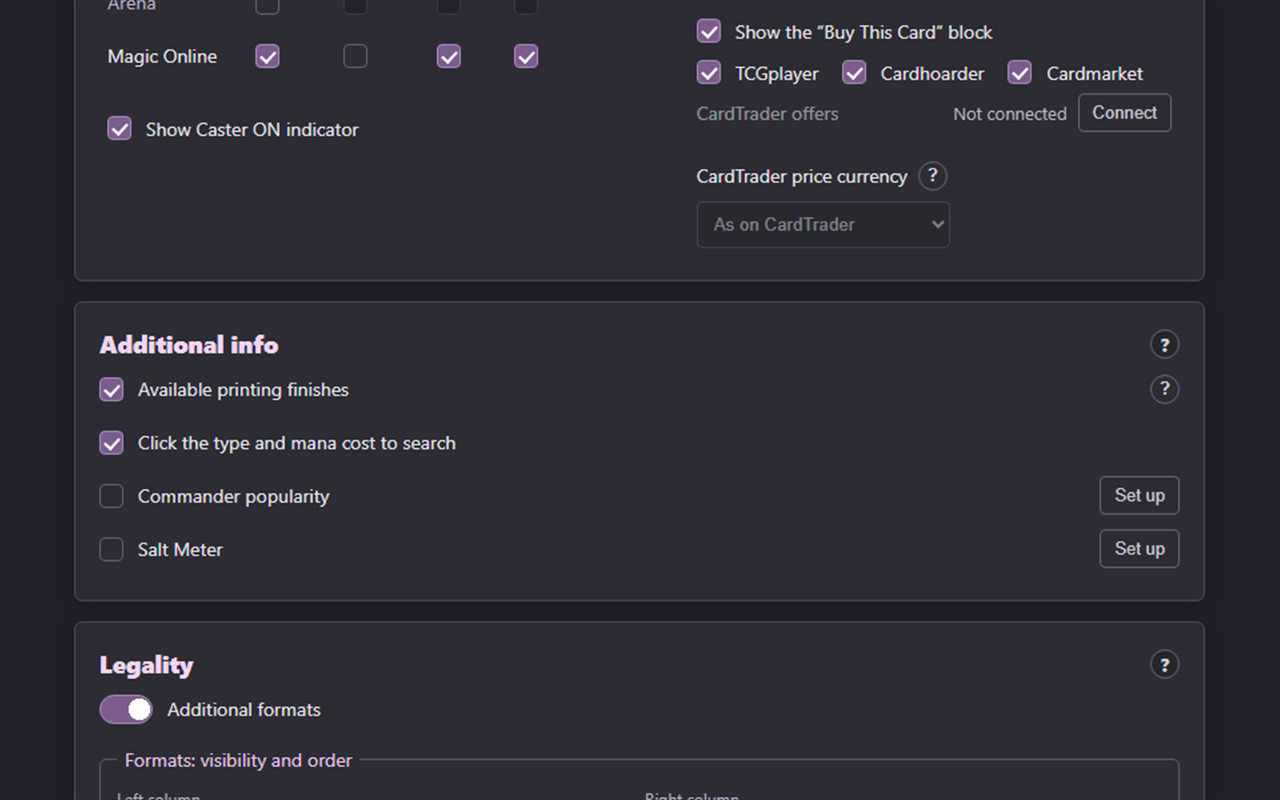
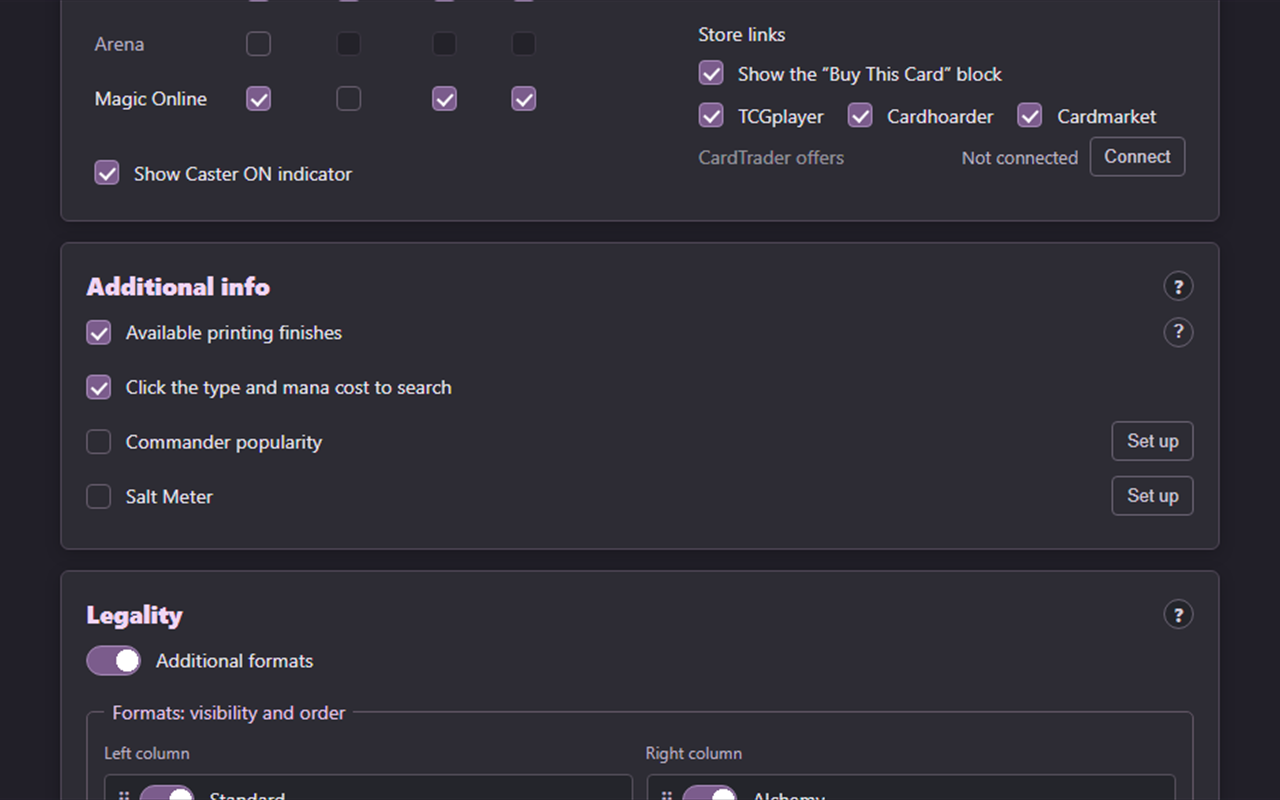
### 2.4.2 - the CardTrader currency choice is gone

diff --git a/src/ui/options.js b/src/ui/options.js
@@ -11,7 +11,7 @@
 const defaults = {
   settingsLanguage: 'auto',
   clipboard: true, printAddButtons: true, darkTheme: 'auto', tags: true, cardTags: true, artTags: false, relationships: true,
-  finishBadges: true, cardtraderPrices: false, cardtraderToken: '', cardtraderCurrency: '',
+  finishBadges: true, cardtraderPrices: false, cardtraderToken: '',
   edhrecUsage: false, edhrecSalt: false, showSaltScale: false, edhrecUsageDisplay: 'both',
   usageColorMetric: 'decks', usageMediumDecks: 50000, usageHighDecks: 100000,
   usageMediumPercent: 1, usageHighPercent: 2.6, saltMediumThreshold: 1, saltHighThreshold: 2,
@@ -38,7 +38,7 @@ const defaults = {
 // one flag, the two category rules carry a list under them, and the four price kinds are
 // told apart by the model rather than by an id. A key-by-key save would have to be kept
 // in step with all three, and there is no test that could tell that it was not.
-const basicFields = ["clipboard", "printAddButtons", "tags", "cardTags", "artTags", "relationships", "finishBadges", "cardtraderPrices", "cardtraderCurrency", "edhrecUsage", "edhrecSalt", "showSaltScale", "edhrecUsageDisplay", "usageColorMetric", "legalities", "exportFormat", "taggerSearchLinks", "cardSearchLinks", "deckNoPrices", "stackedDeckCards", "deckLegality", "deckCleanUpImprover", "cleanUpLandsInSingleton", "sortEntriesPrimary", "insertSortingHeadings", "edhrecSuggestions", "deckSearch"];
+const basicFields = ["clipboard", "printAddButtons", "tags", "cardTags", "artTags", "relationships", "finishBadges", "cardtraderPrices", "edhrecUsage", "edhrecSalt", "showSaltScale", "edhrecUsageDisplay", "usageColorMetric", "legalities", "exportFormat", "taggerSearchLinks", "cardSearchLinks", "deckNoPrices", "stackedDeckCards", "deckLegality", "deckCleanUpImprover", "cleanUpLandsInSingleton", "sortEntriesPrimary", "insertSortingHeadings", "edhrecSuggestions", "deckSearch"];
 // EDHREC and CardTrader are optional features, and so is the access they need.
 // Chrome has a place for exactly this: optional_host_permissions, granted only
 // when the user turns one of them on. Turning a switch off and on again is also
@@ -360,17 +360,9 @@ chrome.storage.local.get(defaults, values => {
       notes: [
         'Для цен CardTrader нужен токен. Он хранится локально в расширении и передаётся только в API CardTrader.',
         'Цены в таблице появляются постепенно; столбец подписывается валютой вашего аккаунта. Состояние и язык могут отличаться.',
+        'Выбрать другую валюту нельзя: у API CardTrader нет параметра валюты, он всегда отвечает в валюте аккаунта. Это и есть валюта столбца CardTrader в таблице изданий, а не евро.',
+        'Галочка «Предложения CardTrader» добавляет ссылки CardTrader в блок покупки; галочка CardTrader в группе «Цены» — отдельный столбец, и он работает и без ссылок.',
         'Сохранённый токен не проверяется этой страницей: она не делает запросов к CardTrader. Работает он или нет, видно на странице карты.'
-      ]
-    },
-    eursource: {
-      caption: 'Валюта цен CardTrader',
-      notes: [
-        'Столбец EUR на Scryfall — это цена Cardmarket, и галочка EUR в группе «Цены» показывает или прячет именно его.',
-        'CardTrader — отдельный столбец рядом, со своей галочкой в той же группе. Его цена приходит в валюте вашего аккаунта CardTrader, и столбец подписывается этой валютой — а не евро.',
-        'Параметр валюты у CardTrader нет, поэтому «Валюта цен CardTrader» — предпочтение: если в этой валюте есть предложения, берётся самое дешёвое из них; иначе показывается валюта аккаунта.',
-        'Для столбца CardTrader нужен личный токен, и задаётся он в строке «Предложения CardTrader» выше. Пока токена нет, галочка столбца заблокирована: нажмите «Подключить» и сохраните токен.',
-        'Галочка «Предложения CardTrader» — про другое: она добавляет ссылки CardTrader в блок покупки, а столбец работает и без неё.'
       ]
     },
     deckNoPrices: {
@@ -947,25 +939,19 @@ for (const group of FILTERS.PRICE_GROUP_NAMES) {
   paintStores();
 
   // The CardTrader column's box is drawn with the other prices, and this is where it is wired: it
-  // is the one price that needs a token, so it is out of reach until one is saved, and the
-  // currency below it only means something while it is on.
+  // is the one price that needs a token, so it is out of reach until one is saved.
   //
   // The EUR box above it is a column like USD and TIX and answers only for itself now. It used to
   // share one answer with a source dropdown, and the two were kept in step — which is what left a
   // reader who wanted CardTrader's column unable to have it without Cardmarket's, on a dropdown
   // that was blocked the moment they unticked EUR.
   const cardtraderColumnBox = priceBoxes.cardtrader;
-  const cardtraderCurrency = document.getElementById('cardtraderCurrency');
   const paintCardtraderColumn = () => {
     const connected = tokenStatus.dataset.stored === 'yes';
-    const on = connected && filters.prices.cardtrader !== false;
     if (cardtraderColumnBox) {
       cardtraderColumnBox.disabled = !connected;
-      cardtraderColumnBox.checked = on;
+      cardtraderColumnBox.checked = connected && filters.prices.cardtrader !== false;
     }
-    // The currency only means something for the column it heads, so it is out of reach while the
-    // column is off — and while there is no token to ask with.
-    cardtraderCurrency.disabled = !on;
   };
   repaintCardtraderColumn = paintCardtraderColumn;
   // A token that has gone cannot fill the column, so the column goes with it rather than staying

diff --git a/src/background/worker.js b/src/background/worker.js
@@ -54,7 +54,7 @@ async function cardTrader(path, token) {
     headers: { Authorization: `Bearer ${token}`, Accept: 'application/json' }, credentials: 'omit'
   });
 }
-async function cardTraderPrices(id, set, token, wanted = '') {
+async function cardTraderPrices(id, set, token) {
   const expansions = await traderMemo('trader:expansions', 24 * 3600000, () => cardTrader('expansions', token));
   const expansion = expansions.find(item => item.game_id === 1 && item.code?.toLowerCase() === set.toLowerCase());
   if (!expansion) return { available: false };
@@ -66,35 +66,21 @@ async function cardTraderPrices(id, set, token, wanted = '') {
     () => cardTrader(`marketplace/products?blueprint_id=${blueprint.id}`, token));
   const products = Array.isArray(raw) ? raw : Array.isArray(raw?.data) ? raw.data :
     Object.values(raw || {}).flatMap(value => Array.isArray(value) ? value : []);
-  // The price the API returns is in the account's own currency — CardTrader's docs say so, and
-  // the endpoint has no currency parameter — so a wanted currency is a preference rather than a
-  // request: the cheapest offer in it is used when one exists, and the account's own currency is
-  // the answer otherwise. Requiring a currency with no offers in it would leave the column empty
-  // on an account that never lists one.
-  const wantedCode = /^[A-Z]{3}$/.test(wanted) ? wanted : '';
-  // The cheapest offer in the wanted currency, and beside it the cheapest in any currency. The
-  // preference above has always said a wanted currency is a preference and the account's own is
-  // the answer otherwise; the loop did not, and a reader who picked a currency their account never
-  // lists saw an empty column and an empty link. The fallback is what makes the sentence true.
+  // The price the API returns is in the account's own currency — CardTrader's docs say so, and the
+  // endpoint has no currency parameter — so there is nothing to prefer and nothing to fall back
+  // from: the cheapest offer of each kind is the answer, in whichever currency it came in.
   const cheapest = { foil: null, nonfoil: null };
-  const fallback = { foil: null, nonfoil: null };
-  const cheaper = (held, cents, currency) => !held || (held.currency === currency && cents < held.cents);
   for (const product of products) {
     if (product.blueprint_id !== blueprint.id || product.quantity <= 0) continue;
     const cents = product.price?.cents ?? product.price_cents;
     const currency = product.price?.currency ?? product.price_currency;
     if (!Number.isFinite(cents) || !/^[A-Z]{3}$/.test(currency || '')) continue;
     const kind = product.properties_hash?.mtg_foil === true || product.properties?.mtg_foil === true ? 'foil' : 'nonfoil';
-    if (cheaper(fallback[kind], cents, currency)) fallback[kind] = { cents, currency };
-    if (wantedCode && currency !== wantedCode) continue;
-    if (cheaper(cheapest[kind], cents, currency)) cheapest[kind] = { cents, currency };
+    if (!cheapest[kind] || (cheapest[kind].currency === currency && cents < cheapest[kind].cents)) {
+      cheapest[kind] = { cents, currency };
+    }
   }
-  return {
-    available: true,
-    url: `https://www.cardtrader.com/en/cards/${blueprint.id}`,
-    foil: cheapest.foil || fallback.foil,
-    nonfoil: cheapest.nonfoil || fallback.nonfoil
-  };
+  return { available: true, url: `https://www.cardtrader.com/en/cards/${blueprint.id}`, ...cheapest };
 }
 // EDHREC publishes a data policy for community projects: at most one request a
 // second, at least two seconds before trying again after a 429, and no repeated
@@ -654,7 +640,7 @@ chrome.runtime.onMessage.addListener((message, sender, respond) => {
     if (message.type === 'cardtrader') {
       const id = String(message.id), set = String(message.set);
       if (!/^[0-9a-f-]{36}$/.test(id) || !/^[a-z0-9_-]{1,16}$/i.test(set)) throw new Error('Invalid card');
-      const stored = await chrome.storage.local.get(['cardtraderToken','cardtraderPrices','setFilters','cardtraderCurrency']);
+      const stored = await chrome.storage.local.get(['cardtraderToken','cardtraderPrices','setFilters']);
       // Either CardTrader feature being on is enough, and the column's own switch lives in the
       // hiding group with the other columns. A value written before that switch existed has no
       // `cardtrader` key of its own, so it is read as "not off": the page only asks when a switch
@@ -662,7 +648,7 @@ chrome.runtime.onMessage.addListener((message, sender, respond) => {
       // wrong side of that guess.
       const column = stored.setFilters?.prices?.cardtrader;
       if ((!stored.cardtraderPrices && column === false) || !stored.cardtraderToken) throw new Error('CardTrader is not configured');
-      return cardTraderPrices(id, set, stored.cardtraderToken, stored.cardtraderCurrency);
+      return cardTraderPrices(id, set, stored.cardtraderToken);
     }
     if (message.type === "preview") {
       if (!/^(oracleid|illustrationid)$/.test(String(message.kind)) ||

diff --git a/src/core/i18n.js b/src/core/i18n.js
@@ -115,13 +115,8 @@ const resolveSettingsLanguage = value => {
     'Показывать шкалу «/4»': 'Show the “/4” scale',
     'Показывать блок «Купить карту»': 'Show the “Buy This Card” block',
     'Столбец EUR на Scryfall — это цена Cardmarket, и галочка EUR в группе «Цены» показывает или прячет именно его.': 'Scryfall’s EUR column is Cardmarket’s price, and the EUR box in the Prices group shows or hides exactly that column.',
-    'CardTrader — отдельный столбец рядом, со своей галочкой в той же группе. Его цена приходит в валюте вашего аккаунта CardTrader, и столбец подписывается этой валютой — а не евро.': 'CardTrader is a separate column beside it, with its own box in the same group. Its price comes in your CardTrader account’s currency, and the column is headed with that currency — not with euro.',
-    'Параметр валюты у CardTrader нет, поэтому «Валюта цен CardTrader» — предпочтение: если в этой валюте есть предложения, берётся самое дешёвое из них; иначе показывается валюта аккаунта.': 'CardTrader has no currency parameter, so “CardTrader price currency” is a preference: when offers exist in that currency the cheapest of them is used, and the account’s currency is shown otherwise.',
-    'Для столбца CardTrader нужен личный токен, и задаётся он в строке «Предложения CardTrader» выше. Пока токена нет, галочка столбца заблокирована: нажмите «Подключить» и сохраните токен.': 'The CardTrader column needs a personal token, set in the “CardTrader offers” row above. While there is no token its box is blocked: press “Connect” and save one.',
-    'Галочка «Предложения CardTrader» — про другое: она добавляет ссылки CardTrader в блок покупки, а столбец работает и без неё.': 'The “CardTrader offers” box is about something else: it adds CardTrader links to the buy block, and the column works without it.',
-    'Валюта цен CardTrader': 'CardTrader price currency',
-    'Как на CardTrader': 'As on CardTrader',
-    'Цена CardTrader приходит в валюте вашего аккаунта CardTrader, и столбец подписывается этой валютой — а не евро. Параметр валюты у CardTrader нет, поэтому «Валюта цен CardTrader» — предпочтение: если в этой валюте есть предложения, берётся самое дешёвое из них; иначе показывается валюта аккаунта.': 'CardTrader returns the price in your CardTrader account’s currency, and the column is headed with that currency — not with euro. CardTrader has no currency parameter, so “CardTrader price currency” is a preference: when offers exist in that currency the cheapest of them is used, and the account’s currency is shown otherwise.',
+    'Выбрать другую валюту нельзя: у API CardTrader нет параметра валюты, он всегда отвечает в валюте аккаунта. Это и есть валюта столбца CardTrader в таблице изданий, а не евро.': 'There is no other currency to choose: the CardTrader API has no currency parameter and always answers in the account’s currency. That is the currency of the CardTrader column in the prints table, not euro.',
+    'Галочка «Предложения CardTrader» добавляет ссылки CardTrader в блок покупки; галочка CardTrader в группе «Цены» — отдельный столбец, и он работает и без ссылок.': 'The “CardTrader offers” box adds CardTrader links to the buy block; the CardTrader box in the Prices group is a separate column, and it works without the links.',
     'Что это': 'What this does',
     'Дробь и процент': 'Fraction and percentage', 'Только дробь': 'Fraction only', 'Только процент': 'Percentage only',
     'Количеству колод': 'Deck count', 'Доле подходящих колод': 'Eligible deck percentage',

diff --git a/src/card-page/prices.js b/src/card-page/prices.js
@@ -57,10 +57,8 @@
     // store markup had moved lost the column as well.
     const showColumn = setFilters.prices.cardtrader !== false;
     const showCardmarket = setFilters.prices.eur !== false;
-    // Which currency the CardTrader column asks for. Empty means "as the account", which is what
-    // CardTrader's own API answers in; a code is a preference the worker honours when an offer in
-    // it exists, because the endpoint has no currency parameter of its own.
-    const wantedCurrency = /^[A-Z]{3}$/.test(settings.cardtraderCurrency || '') ? settings.cardtraderCurrency : '';
+    // There is no currency to ask for: CardTrader answers in the account's own currency and the
+    // endpoint has no parameter for another, so the column is headed with whatever comes back.
     const table = document.querySelector('#main .prints > .prints-table');
     const eurIndex = [...(table?.querySelectorAll('thead th') || [])].findIndex(th => th.textContent.trim().toUpperCase() === 'EUR');
     if (table && eurIndex >= 0 && (showColumn || !showCardmarket)) {
@@ -82,13 +80,11 @@
         const th = document.createElement('th');
         th.className = 'stk-ct-price-header';
         th.title = 'CardTrader: lowest offer for this printing';
-        th.append(priceHeading('cardtrader', wantedCurrency));
+        th.append(priceHeading('cardtrader'));
         heading.after(th);
-        // The heading's currency code. It is a hint until the first offer is answered — the code
-        // the reader asked for, or nothing when the setting says "as the account" — and the first
-        // offer then says what the column's numbers are actually in, because the wanted currency
-        // is a preference the worker falls back from when the account lists none of it. Left as
-        // the hint, a reader who asked for USD over euro offers read "USD" above "0,11 €".
+        // The heading's currency code, filled in when the first offer is answered: the account's
+        // currency is not known before a request is answered, and there is no setting to read it
+        // from — CardTrader has no currency parameter.
         const ctCode = () => th.querySelector('.stk-price-code');
         const rows = [...table.querySelectorAll('tbody tr')];
         const queue = [];

diff --git a/src/ui/options.html b/src/ui/options.html
@@ -116,16 +116,6 @@
 <button type="button" class="feature-help" data-help="cardtrader" aria-haspopup="dialog" title="Что это">?</button>
 </div>
 </div>
-<!-- Which currency the CardTrader column is headed with. The column's own switch is drawn with the
-     other prices, and it needs CardTrader's token to fill at all — not obvious from a currency
-     code — so this carries its own help. -->
-<div class="price-source">
-<div class="price-source-head">
-<label class="pair-caption" for="cardtraderCurrency">Валюта цен CardTrader</label>
-<button type="button" class="feature-help" data-help="eursource" aria-haspopup="dialog" title="Что это">?</button>
-</div>
-<select id="cardtraderCurrency"><option value="">Как на CardTrader</option><option value="EUR">EUR</option><option value="USD">USD</option><option value="GBP">GBP</option><option value="JPY">JPY</option><option value="CAD">CAD</option><option value="AUD">AUD</option><option value="CHF">CHF</option><option value="PLN">PLN</option><option value="SEK">SEK</option><option value="NOK">NOK</option><option value="DKK">DKK</option><option value="CZK">CZK</option></select>
-</div>
 </div>
 </div>
 </section>

diff --git a/src/ui/options.css b/src/ui/options.css
@@ -85,15 +85,6 @@ label{display:block;margin:9px 0;cursor:pointer}input{accent-color:#aa85b5}
 .pair-caption{margin:0 0 8px;font-size:14px;color:#e9e5ee}
 .pair-items{display:flex;flex-wrap:wrap;gap:8px 18px}
 .pair-item{display:flex;align-items:center;gap:8px;margin:0;font-size:14px;cursor:pointer}
-/* The currency the CardTrader column is headed with. The same shape as the price groups above it —
-   a caption and the control it names — because it is the same kind of setting, and it sits under
-   them rather than in the other section, where it was a price setting in a list of things that are
-   not prices. */
-.price-source{margin:16px 0 0}
-.price-source-head{display:flex;align-items:center;gap:8px;margin:0 0 8px}
-.price-source .pair-caption{margin:0}
-.price-source select{width:auto;min-width:190px;max-width:260px;margin-top:0}
-.price-source select:disabled{opacity:.45;cursor:not-allowed}
 /* The general switch over the shop block, above the shops it governs and inside their group. */
 .stores-row{margin:0 0 10px}
 /* One row and one box, on its own line in the left column under the platforms table. It is a

diff --git a/src/card-page/core.js b/src/card-page/core.js
@@ -64,7 +64,6 @@
     clipboard: true, tags: true, cardTags: true, artTags: false, relationships: true,
     printAddButtons: true,
     legalities: true, finishBadges: true, cardtraderPrices: false,
-    cardtraderCurrency: '',
     edhrecUsage: false, edhrecSalt: false, showSaltScale: false, edhrecUsageDisplay: 'both',
     usageColorMetric: 'decks', usageMediumDecks: 50000, usageHighDecks: 100000,
     usageMediumPercent: 1, usageHighPercent: 2.6, saltMediumThreshold: 1, saltHighThreshold: 2,

diff --git a/README.md b/README.md
@@ -73,7 +73,7 @@ The toolbar button opens a small popup with the four switches you reach for most
 | **General** | Settings language — for the settings page and the popup; the controls the extension adds to Scryfall and Tagger are always in English — and theme |
 | **Tags** | Card/art tags, related cards, the Tagger link on search results |
 | **CardClip** | The clipboard, the copy format, the per-printing `+` |
-| **Visibility** | two columns: on the left a table with one row per platform - Paper, Arena, Magic Online - and a column per place: the platform's own **Show** box and its own boxes for the **Prints table**, **Search** and **Sets list**, with the Caster marker on its own under the table; and on the right, prices (USD, TIX, EUR, CardTrader), store links (TCGplayer, Cardhoarder, Cardmarket) under a switch for the whole **Buy This Card** block, and CardTrader offers. Everything ticked means shown, and turning a platform - or the store block - off keeps the choices under it and brings them back; the **EUR** box hides Cardmarket's euro column and the **CardTrader** box adds its own column, and neither reads the other. CardTrader's prices need a personal API key: until one is saved its box is blocked; its column is headed with the currency the account answers in, and **CardTrader price currency** can prefer another |
+| **Visibility** | two columns: on the left a table with one row per platform - Paper, Arena, Magic Online - and a column per place: the platform's own **Show** box and its own boxes for the **Prints table**, **Search** and **Sets list**, with the Caster marker on its own under the table; and on the right, prices (USD, TIX, EUR, CardTrader), store links (TCGplayer, Cardhoarder, Cardmarket) under a switch for the whole **Buy This Card** block, and CardTrader offers. Everything ticked means shown, and turning a platform - or the store block - off keeps the choices under it and brings them back; the **EUR** box hides Cardmarket's euro column and the **CardTrader** box adds its own column, and neither reads the other. CardTrader's prices need a personal API key: until one is saved its box is blocked; its column is headed with the currency the account answers in — there is nothing to choose, because the API has no currency parameter |
 | **Additional info** | A list of one-line features, each with its own switch and its settings behind a **Set up** button: the finish column, type and mana search, Commander popularity and Salt Meter |
 | **Legality** | The extra formats and their order |
 | **Scryfall Deckbuilder** | A list of one-line features, each with its own switch and a **?** for what it does and what it does not: No Prices, the token list, stacked cards, a per-card Commander check, EDHREC suggestions, deck search, and the improved cleanup — whose settings are behind its own **Set up**, collapsed until asked for |

diff --git a/docs/FEATURES.md b/docs/FEATURES.md
@@ -137,15 +137,15 @@ column this extension adds from your own account: it has a switch of its own, an
 the other, so CardTrader's prices can be shown without Cardmarket's euro column and the other way
 round. It needs a personal token, set in the CardTrader row, and the row's own switch is not
 required for it: that switch is about the buy-block links. The column is headed with the currency
-its prices come in — the API answers in the account's currency and has no currency parameter — and
-**CardTrader price currency**, under the price groups, prefers another one when offers in it exist.
-The shop box is a different question again: hiding Cardmarket hides its links and not the column.
+its prices come in — CardTrader answers in your account's currency and their API has no parameter
+for another, so there is no currency to choose and nothing to prefer. The shop box is a different
+question again: hiding Cardmarket hides its links and not the column.
 
 **CardTrader prices.** With your own personal API token, the extension matches Scryfall
 print IDs against CardTrader blueprints, links the exact printing and shows the cheapest
 listed foil and nonfoil offers. Its column fills gradually to respect the marketplace
-rate limit, and it is headed with the currency the account's offers come in. If CardTrader fails, a CardTrader-only table
-restores the native Cardmarket column unless the reader has hidden Cardmarket. Listed prices
+rate limit, and it is headed with the currency the account's offers come in. A printing with no
+offer leaves its cell empty rather than filling it from somewhere else. Listed prices
 exclude shipping and do not guarantee language, condition or stock. The token is stored locally
 and sent only to `api.cardtrader.com`. On the settings page the feature cannot be switched on
 before there is a token, because a switch that turns on a request that cannot be made is a switch

diff --git a/docs/CHROME_WEB_STORE_LISTING.md b/docs/CHROME_WEB_STORE_LISTING.md
@@ -1,4 +1,4 @@
-# Chrome Web Store listing — Scryfall Toolkit 2.4.1
+# Chrome Web Store listing — Scryfall Toolkit 2.4.2
 
 Everything here is written from the shipped code, so that the answers given in the store
 console match what the extension actually does. Where a field needs a decision from the
@@ -272,12 +272,12 @@ Ready in `store-assets/`, each exactly **1280×800** (PNG), in English:
 | --- | --- |
 | `store-assets/01-settings-01-of-05.png` | the header, General (settings language, theme), and the start of Tags |
 | `store-assets/02-settings-02-of-05.png` | the end of Tags, CardClip with its export format, and the start of Visibility: the platform table and the prices, with the CardTrader column's box beside USD, TIX and EUR |
-| `store-assets/03-settings-03-of-05.png` | the rest of Visibility - the shop block, CardTrader unconnected, and the currency its column is headed with - Additional info as a list of one-line features, and the start of Legality |
+| `store-assets/03-settings-03-of-05.png` | the rest of Visibility - the shop block, CardTrader unconnected, and the Caster marker - Additional info as a list of one-line features, and the start of Legality |
 | `store-assets/04-settings-04-of-05.png` | the format grid, and the start of Scryfall Deckbuilder with its switches on |
 | `store-assets/05-settings-05-of-05.png` | the rest of Scryfall Deckbuilder (EDHREC suggestions asking for its permission), the collapsed **Diagnostics** section, and Credits and third-party projects |
 
 All five come from one real capture of the settings page
-(`store-assets/settings-page-full.png`, 1280×3000), so nothing is repeated or cropped
+(`store-assets/settings-page-full.png`, 1280×2921), so nothing is repeated or cropped
 away between them. Each tile is scaled uniformly to 800 rows and the margins continue
 the page's own colour, so no screenshot is stretched.
 

diff --git a/CHANGELOG.md b/CHANGELOG.md
@@ -8,6 +8,15 @@ All releases: <https://github.com/Solomag/scryfall-toolkit/releases>
 
 ---
 
+### 2.4.2 - the CardTrader currency choice is gone
+
+The column's heading promised a currency the API cannot honour. CardTrader answers in the account's
+own currency and their reference has no parameter for another, so **CardTrader price currency** was a
+control that could only ever do nothing — and when the account's offers were in euro, picking
+dollars left the heading saying USD over euro numbers. The dropdown is gone; the column is headed
+with whatever the account's offers come in, which is all that was ever possible. The explanation
+moved into the CardTrader row's help, beside the token that sets the column up.
+
 ### 2.4.1 - the CardTrader heading says the currency of the numbers
 
 The column's heading carried the currency the reader asked for, and the numbers carried the currency
